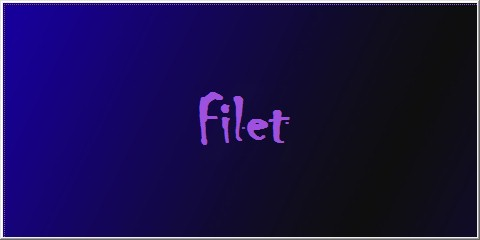
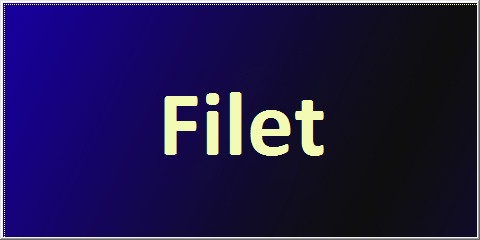
Add files via upload

diff --git a/index.html b/index.html
@@ -1,9 +1,9 @@
 <head>
-<meta property="og:url" content="/ViewMenu.htm" />
+<meta property="og:url" content="https://zgharta.github.io/Menu/ViewMenu.htm" />
 <meta property="og:type" content="article" />
 <meta property="og:title" content="Flame" />
 <meta property="og:description" content="Flame Online Menu" />
-<meta property="og:image" content="/logo.gif" />
+<meta property="og:image" content="https://zgharta.github.io/Menu/logo.gif" />
 </head>
 
 <SCRIPT LANGUAGE="JavaScript" TYPE="text/javascript">
@@ -188,10 +188,10 @@ font-size: 60px;
 </Style>
 
 
-<script>var Currency1 = "LBP" </script><link rel="icon" type="image/x-icon" href="favicon.ico" > <form><input type="button" value="Main Page" onclick="location.href= '/'; return false;"  style="float: right;height:66; width:250; background-color: rgb(); color: RGB(118,55,165); font-size:32pt; font-weight:bold"></form><font face='Helvetica' style="color: rgb(73,10,120); font-size: 16pt;">Menu By MyShopPOS <br><a href="https://MyShopPOS. wordpress.com"  target="_blank" rel="noopener noreferrer" style="color: inherit;text-decoration:none; cursor: pointer; cursor: hand;">MyShopPOS. wordpress.com</a>
-<body style="background-color: rgb(); color: RGB(118,55,165); "><br> <font style="font-size: 14pt;">2022/10/22 15:31:35
+<script>var Currency1 = "LBP" </script><link rel="icon" type="image/x-icon" href="favicon.ico" > <form><input type="button" value="Main Page" onclick="location.href= '/'; return false;"  style="float: right;height:66; width:250; background-color: rgb(239,254,186); color: RGB(45,88,103); font-size:32pt; font-weight:bold"></form><font face='Helvetica' style="color: rgb(0,43,58); font-size: 16pt;">Menu By MyShopPOS <br><a href="https://MyShopPOS. wordpress.com"  target="_blank" rel="noopener noreferrer" style="color: inherit;text-decoration:none; cursor: pointer; cursor: hand;">MyShopPOS. wordpress.com</a>
+<body style="background-color: rgb(239,254,186); color: RGB(45,88,103); "><br> <font style="font-size: 14pt;">2022/10/22 15:46:24
 <title>Menu</title>
-<body background='menuback.jpg'><table border=0 style='border-width:0; width:100%; cellspacing='0' cellpadding='0'>
+<body style="background-color: rgb(239,254,186); color: rgb(0,43,58); "><table border=0 style='border-width:0; width:100%; cellspacing='0' cellpadding='0'>
 <colgroup><col span='1'><col span='1' style='width: 60%;'><col span='1' style='width: 17%;'></colgroup>
 <tr>
 <td style='border-style: none; border-width: medium'></td>
@@ -214,7 +214,7 @@ font-size: 60px;
 <tr>
 <td style='border-style: none; border-width: medium'></td>
 <td align='center' style='border-style: none; border-width: medium'>
-<font face='Helvetica' style="color: rgb(73,10,120); font-size: 32pt;"><center>Ttel. 76-013667</font></td>
+<font face='Helvetica' style="color: rgb(0,43,58); font-size: 32pt;"><center>Zgharta - Tel. 76-013667 <br>Ehden - Tel. 78-948448</font></td>
 <td align='right' style='border-style: none; border-width: medium'>
 </tr>
 </table><br>
@@ -231,12 +231,12 @@ font-size: 60px;
 <button style="width:400px; height:200px" class="tablinks" onclick="return openCity(event, 'Platters')"><img src="Menu Photos\Platters.jpg"  width="100%" height="100%" alt="" /></button>
 <button style="width:400px; height:200px" class="tablinks" onclick="return openCity(event, 'Burgers')"><img src="Menu Photos\Burgers.jpg"  width="100%" height="100%" alt="" /></button>
 <button style="width:400px; height:200px" class="tablinks" onclick="return openCity(event, 'Sandwiches')"><img src="Menu Photos\Sandwiches.jpg"  width="100%" height="100%" alt="" /></button>
-<button style="width:400px; height:200px" class="tablinks" onclick="return openCity(event, 'DRINKS')"><img src="Menu Photos\DRINKS.jpg"  width="100%" height="100%" alt="" /></button>
+<button style="width:400px; height:200px" class="tablinks" onclick="return openCity(event, 'Drinks')"><img src="Menu Photos\Drinks.jpg"  width="100%" height="100%" alt="" /></button>
 </div>
 
 <div id="Potatoes" class="tabcontent">
 <table>
-<head><style>table, th, td {border: 0px solid rgb(73,10,120); border-collapse:collapse;}</style></head><body background='menuback.jpg'><table style="width:100%"><font face="Helvetica" style="font-size:55px"> &nbsp </font>
+<head><style>table, th, td {border: 0px solid rgb(0,43,58); border-collapse:collapse;}</style></head><body style="background-color: rgb(239,254,186); color: rgb(0,43,58); "><table style="width:100%"><font face="Helvetica" style="font-size:55px"> &nbsp </font>
 <tr><td  VALIGN=TOP><font face="Helvetica" style="font-size:45px"><p style='font-family:helvetica;font-size:45px;'>ROASTED BABY POTATO
 </br></br></td>
 <td "col width=38%" valign="top" style="font-family:helvetica;font-size:45px; text-align:right;vertical-align:top">70,000 LBP
@@ -259,7 +259,7 @@ font-size: 60px;
 
 <div id="Salad" class="tabcontent">
 <table>
-<head><style>table, th, td {border: 0px solid rgb(73,10,120); border-collapse:collapse;}</style></head><body background='menuback.jpg'><table style="width:100%"><font face="Helvetica" style="font-size:55px"> &nbsp </font>
+<head><style>table, th, td {border: 0px solid rgb(0,43,58); border-collapse:collapse;}</style></head><body style="background-color: rgb(239,254,186); color: rgb(0,43,58); "><table style="width:100%"><font face="Helvetica" style="font-size:55px"> &nbsp </font>
 <tr><td  VALIGN=TOP><font face="Helvetica" style="font-size:45px"><p style='font-family:helvetica;font-size:45px;'>SEASON SALAD
 </br></br></td>
 <td "col width=38%" valign="top" style="font-family:helvetica;font-size:45px; text-align:right;vertical-align:top">70,000 LBP
@@ -270,7 +270,7 @@ font-size: 60px;
 
 <div id="Filet" class="tabcontent">
 <table>
-<head><style>table, th, td {border: 0px solid rgb(73,10,120); border-collapse:collapse;}</style></head><body background='menuback.jpg'><table style="width:100%"><font face="Helvetica" style="font-size:55px"> &nbsp </font>
+<head><style>table, th, td {border: 0px solid rgb(0,43,58); border-collapse:collapse;}</style></head><body style="background-color: rgb(239,254,186); color: rgb(0,43,58); "><table style="width:100%"><font face="Helvetica" style="font-size:55px"> &nbsp </font>
 <tr><td  VALIGN=TOP><font face="Helvetica" style="font-size:45px"><p style='font-family:helvetica;font-size:45px;'>GRILLED NORWAY SALMON FIKET (1.7kgs)
 </br></br></td>
 <td "col width=38%" valign="top" style="font-family:helvetica;font-size:45px; text-align:right;vertical-align:top">1 LBP
@@ -287,7 +287,7 @@ font-size: 60px;
 
 <div id="Platters" class="tabcontent">
 <table>
-<head><style>table, th, td {border: 0px solid rgb(73,10,120); border-collapse:collapse;}</style></head><body background='menuback.jpg'><table style="width:100%"><font face="Helvetica" style="font-size:55px"> &nbsp </font>
+<head><style>table, th, td {border: 0px solid rgb(0,43,58); border-collapse:collapse;}</style></head><body style="background-color: rgb(239,254,186); color: rgb(0,43,58); "><table style="width:100%"><font face="Helvetica" style="font-size:55px"> &nbsp </font>
 <tr><td  VALIGN=TOP><font face="Helvetica" style="font-size:45px"><p style='font-family:helvetica;font-size:45px;'>CHICKEN CRISPY PLATTER
 </br></br></td>
 <td "col width=38%" valign="top" style="font-family:helvetica;font-size:45px; text-align:right;vertical-align:top">200,000 LBP
@@ -310,7 +310,7 @@ font-size: 60px;
 
 <div id="Burgers" class="tabcontent">
 <table>
-<head><style>table, th, td {border: 0px solid rgb(73,10,120); border-collapse:collapse;}</style></head><body background='menuback.jpg'><table style="width:100%"><font face="Helvetica" style="font-size:55px"> &nbsp </font>
+<head><style>table, th, td {border: 0px solid rgb(0,43,58); border-collapse:collapse;}</style></head><body style="background-color: rgb(239,254,186); color: rgb(0,43,58); "><table style="width:100%"><font face="Helvetica" style="font-size:55px"> &nbsp </font>
 <tr><td  VALIGN=TOP><font face="Helvetica" style="font-size:45px"><p style='font-family:helvetica;font-size:45px;'>PORK BURGER
 </br></br></td>
 <td "col width=38%" valign="top" style="font-family:helvetica;font-size:45px; text-align:right;vertical-align:top">140,000 LBP
@@ -345,7 +345,7 @@ font-size: 60px;
 
 <div id="Sandwiches" class="tabcontent">
 <table>
-<head><style>table, th, td {border: 0px solid rgb(73,10,120); border-collapse:collapse;}</style></head><body background='menuback.jpg'><table style="width:100%"><font face="Helvetica" style="font-size:55px"> &nbsp </font>
+<head><style>table, th, td {border: 0px solid rgb(0,43,58); border-collapse:collapse;}</style></head><body style="background-color: rgb(239,254,186); color: rgb(0,43,58); "><table style="width:100%"><font face="Helvetica" style="font-size:55px"> &nbsp </font>
 <tr><td  VALIGN=TOP><font face="Helvetica" style="font-size:45px"><p style='font-family:helvetica;font-size:45px;'>GRILLED NORWAY SALMON
 </br></br></td>
 <td "col width=38%" valign="top" style="font-family:helvetica;font-size:45px; text-align:right;vertical-align:top">325,000 LBP
@@ -384,9 +384,9 @@ font-size: 60px;
 </table>
 </div>
 
-<div id="DRINKS" class="tabcontent">
+<div id="Drinks" class="tabcontent">
 <table>
-<head><style>table, th, td {border: 0px solid rgb(73,10,120); border-collapse:collapse;}</style></head><body background='menuback.jpg'><table style="width:100%"><font face="Helvetica" style="font-size:55px"> &nbsp </font>
+<head><style>table, th, td {border: 0px solid rgb(0,43,58); border-collapse:collapse;}</style></head><body style="background-color: rgb(239,254,186); color: rgb(0,43,58); "><table style="width:100%"><font face="Helvetica" style="font-size:55px"> &nbsp </font>
 <tr><td  VALIGN=TOP><font face="Helvetica" style="font-size:45px"><p style='font-family:helvetica;font-size:45px;'>WATER
 </br></br></td>
 <td "col width=38%" valign="top" style="font-family:helvetica;font-size:45px; text-align:right;vertical-align:top">10,000 LBP
